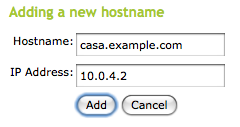
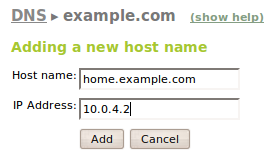
NN: Updating and adding new shots for DNS module closes #1529 and closes #1658
git-svn-id: file:///home/koke/ebox2git/svn/trunk@15979 866bc4c1-54da-0310-a958-9d5a9a0e8d04

Changed region(s): [[0.0292, 0.2598, 0.9625, 0.9685], [0.0292, 0.0472, 0.9625, 0.1654]]

diff --git a/docs/es/user/dns.rst b/docs/es/user/dns.rst
@@ -119,9 +119,9 @@ puede tener varios nombres asociados.
 Una característica también importante del DNS es el registro
 **MX**. Dicho registro indica el lugar donde se enviarán los correos
 electrónicos que quieran enviarse a un determinado dominio. Por
-ejemplo, si queremos enviar un correo a alguien@casa.example.com, el
-servidor de correo preguntará por el registro MX de *casa.example.com*
-y el servicio responderá que es *mail.casa.example.com*.
+ejemplo, si queremos enviar un correo a alguien@example.com, el
+servidor de correo preguntará por el registro MX de *example.com*
+y el servicio responderá que es *mail.example.com*.
 
 La configuración en eBox se realiza a través del menú
 :menuselection:`DNS`. En eBox, se pueden configurar tantos dominios
@@ -145,6 +145,9 @@ cuando ofrece una dirección IP a una máquina. Ve a la sección
 configuración con eBox. Actualmente, si un dominio se establece como
 dinámico, no se puede configurar manualmente desde el interfaz de eBox.
 
+.. image:: images/dns/01-dns-domains.png
+   :scale: 70
+
 Una vez que hemos creado un dominio correcto, por ejemplo *casa.example.com*,
 tenemos la posibilidad de rellenar la lista de **máquinas** (*hostnames*) para
 el dominio. Se podrán añadir tantas direcciones IP como se deseen
@@ -157,13 +160,16 @@ tantos alias como se deseen.
 
 Con eBox se establece automáticamente el servidor autorizado para los
 dominios configurados a la máquina con nombre **ns**. Si esa máquina
-no existe, entonces se usa 127.0.0.1 como servidor de nombres
+no existe, entonces se usa 127.0.0.1 c omo servidor de nombres
 autorizado. Si quieres configurar el servidor de nombres autorizado
 manualmente para tus dominios (registros **NS**), ve a
 :guilabel:`servidores de nombres` y elige una de las máquinas del
 dominio o una personalizada. En el escenario típico, se configurará
 una máquina con nombre **ns** usando como dirección IP una de las
 configuradas en la sección :menuselection:`Red --> Interfaces`.
+
+.. image:: images/dns/02-dns-ns.png
+   :scale: 70
 
 Como característica adicional, podemos añadir nombres de servidores de
 correo a través de los :guilabel:`intercambiadores de correo` (*Mail

diff --git a/docs/en/user/dns.rst b/docs/en/user/dns.rst
@@ -118,9 +118,9 @@ can have several associated names.
 Another important characteristic of the DNS is the **MX**
 record. This record indicates the place where the e-mails to be
 sent to a certain domain are to be sent. For
-example, where an e-mail is to be sent to someone@home.example.com, the
-e-mail server will ask for the MX record of *home.example.com*
-and the service will reply that it is *mail.home.example.com*.
+example, where an e-mail is to be sent to someone@example.com, the
+e-mail server will ask for the MX record of *example.com*
+and the service will reply that it is *mail.example.com*.
 
 The configuration in eBox is done through the
 :menuselection:`DNS` menu. In eBox, as many DNS domains as required
@@ -145,7 +145,8 @@ DNS records when it leases/releases an IP address for a host. Check out
 configuration with eBox. Currently, if a domain is set as dynamic, then
 no manual configuration can be done using eBox interface.
 
-.. FIXME: Shot with dynamic zones
+.. image:: images/dns/01-dns-domains.png
+   :scale: 70
 
 Once a correct domain has been created, e.g. *home.example.com*,
 it is possible to complete the :guilabel:`hostnames` list for
@@ -157,8 +158,6 @@ used for each mapping.
 .. image:: images/dns/04-dns-hostname.png
    :scale: 70
 
-.. FIXME: Use Zapp to show the shot
-
 eBox set automatically the authoritative name server for the
 configured domains to **ns** host name. If none is set, then 127.0.0.1
 is set as authoritative name server for those domains. If you want to
@@ -169,7 +168,8 @@ typical scenario, you may configure a **ns** host name using as IP
 address one of the configured in :menuselection:`Network -->
 Interfaces` section.
 
-.. FIXME: Shot adding the name server
+.. image:: images/dns/02-dns-ns.png
+   :scale: 70
 
 As an additional feature, e-mail server names can be added
 through :guilabel:`mail exchangers`
